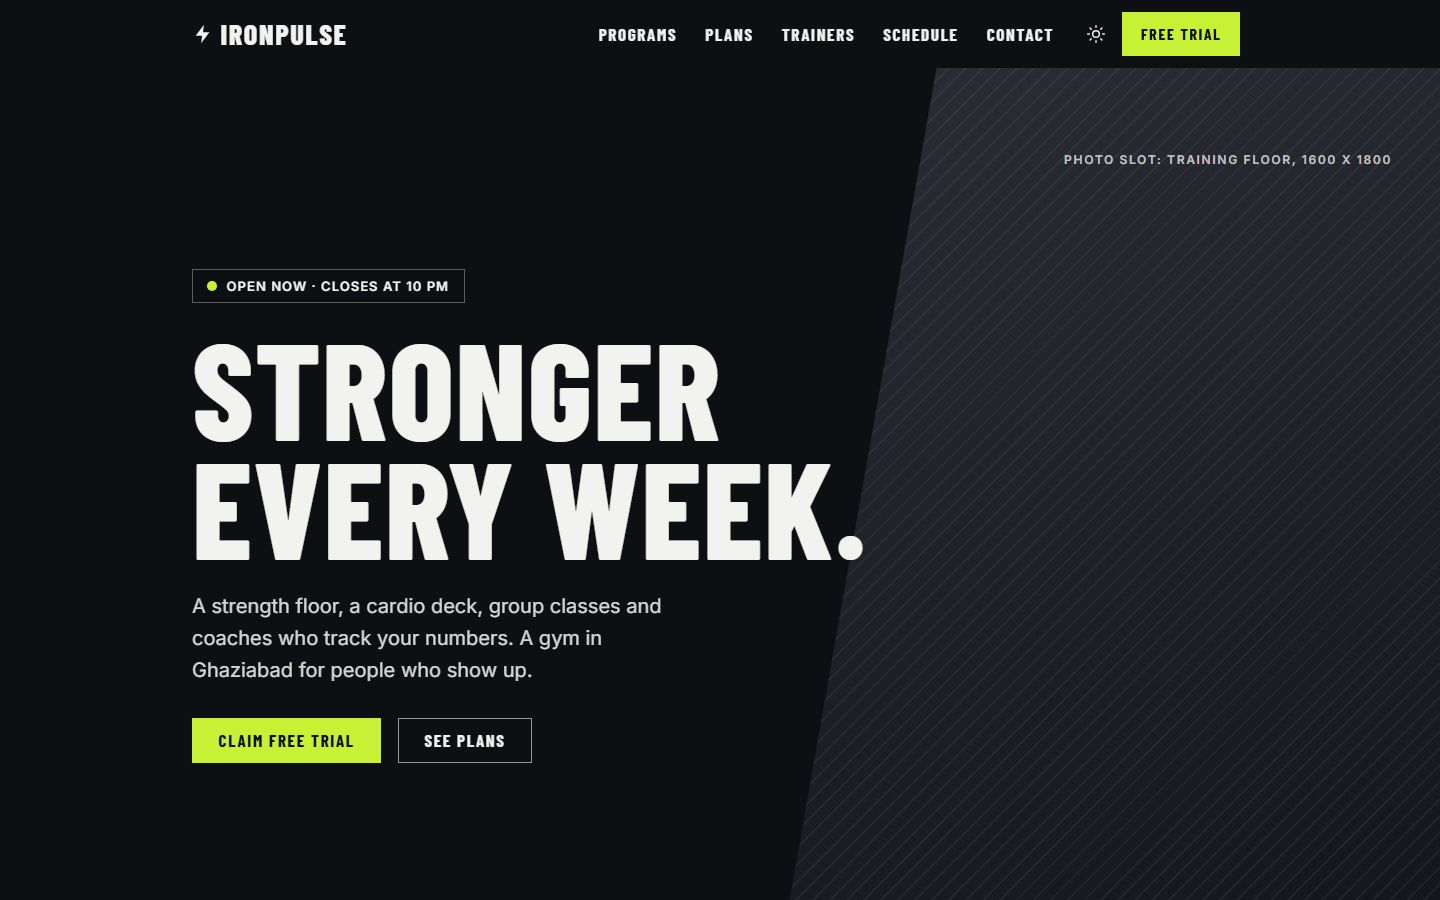
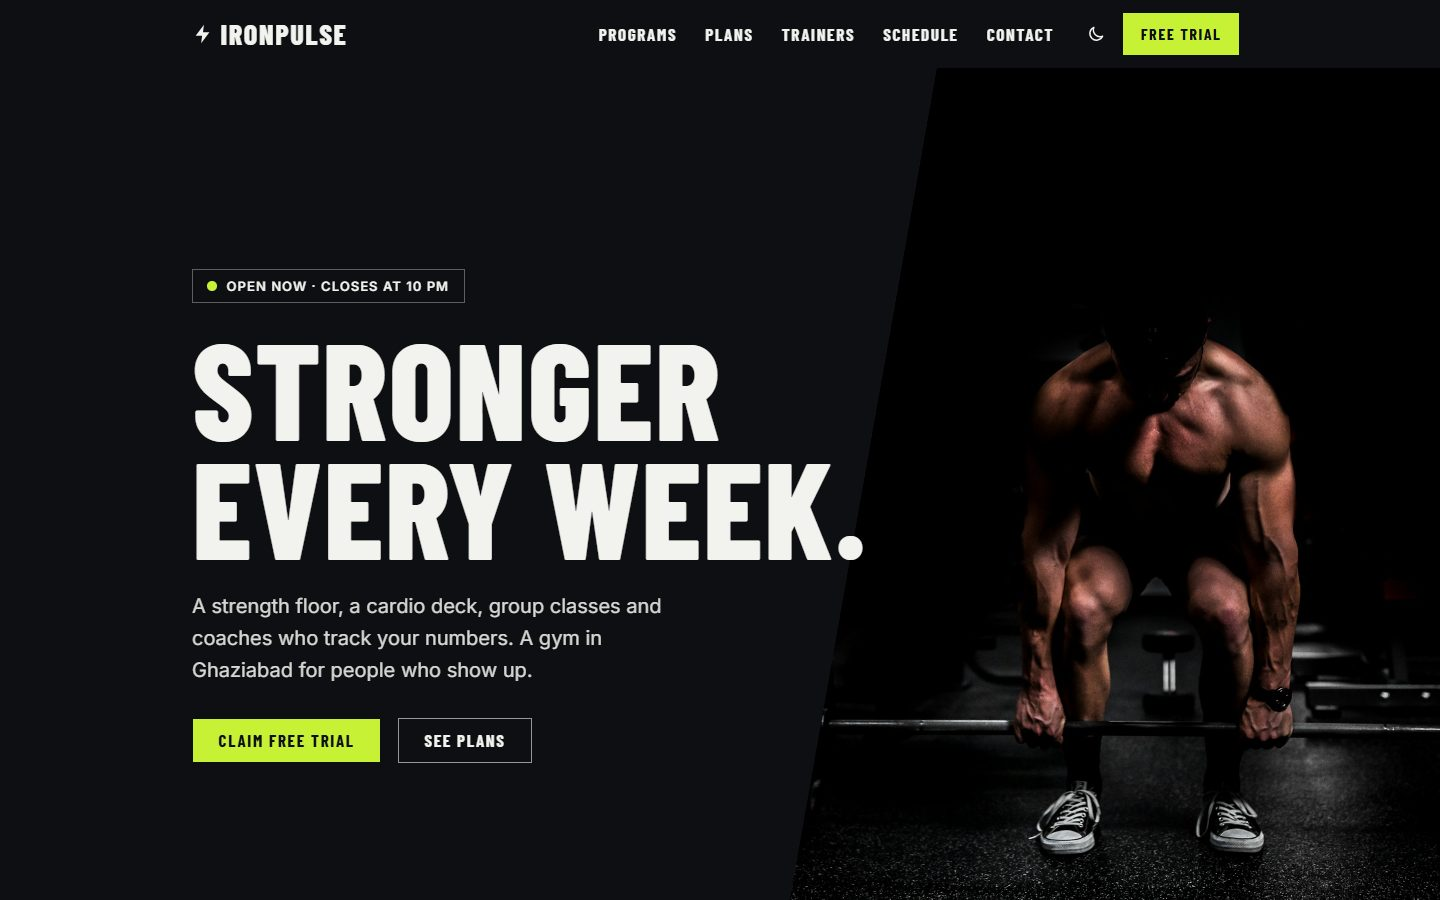
Add Noir project, live links for Meridian and IronPulse, new IronPulse screenshots

diff --git a/js/projects.js b/js/projects.js
@@ -104,7 +104,7 @@ const projects = [
     thumbnail: P + 'meridian-coffee-atlas-1.jpg',
     gallery: [P + 'meridian-coffee-atlas-2.jpg'],
     technologies: ['HTML', 'CSS', 'JavaScript', 'Leaflet'],
-    liveUrl: 'https://your-coffee-locator.netlify.app',        // PLACEHOLDER
+    liveUrl: 'https://restaurant-meridian.netlify.app/',
     githubUrl: '',
     featured: true,
     year: 2026
@@ -164,7 +164,7 @@ const projects = [
     thumbnail: P + 'ironpulse-fitness-1.jpg',
     gallery: [P + 'ironpulse-fitness-2.jpg'],
     technologies: ['HTML', 'CSS', 'JavaScript'],
-    liveUrl: 'https://your-ironpulse-fitness.netlify.app',     // PLACEHOLDER
+    liveUrl: 'https://gym-ironpulsee.netlify.app/',
     githubUrl: '',
     featured: true,
     year: 2026
@@ -180,6 +180,21 @@ const projects = [
     gallery: [P + 'urbannest-realty-2.jpg'],
     technologies: ['HTML', 'CSS', 'JavaScript'],
     liveUrl: 'https://your-urbannest-realty.netlify.app',      // PLACEHOLDER
+    githubUrl: '',
+    featured: false,
+    year: 2026
+  },
+  {
+    id: 17,
+    name: 'NOIR Fine Dining',
+    category: 'Websites',
+    description: 'A dark, cinematic luxury restaurant website with a signature-dishes showcase, filterable menu, gallery lightbox and table reservations.',
+    details: 'A premium website concept for a modern luxury restaurant in Bengaluru. It pairs a full-bleed dining-room hero and elegant serif typography with a charcoal-and-gold palette, and every section is built from plain HTML, CSS and JavaScript.',
+    features: ['Full-bleed cinematic hero with animated headline', 'Signature dishes in an editorial layout with scroll reveals', 'Menu with category filtering and a gallery with lightbox', 'Validated reservation form', 'Fully responsive, with reduced-motion support'],
+    thumbnail: P + 'noir-restaurant-1.jpg',
+    gallery: [P + 'noir-restaurant-2.jpg'],
+    technologies: ['HTML', 'CSS', 'JavaScript'],
+    liveUrl: 'https://restaurant-noirr.netlify.app/',
     githubUrl: '',
     featured: false,
     year: 2026
